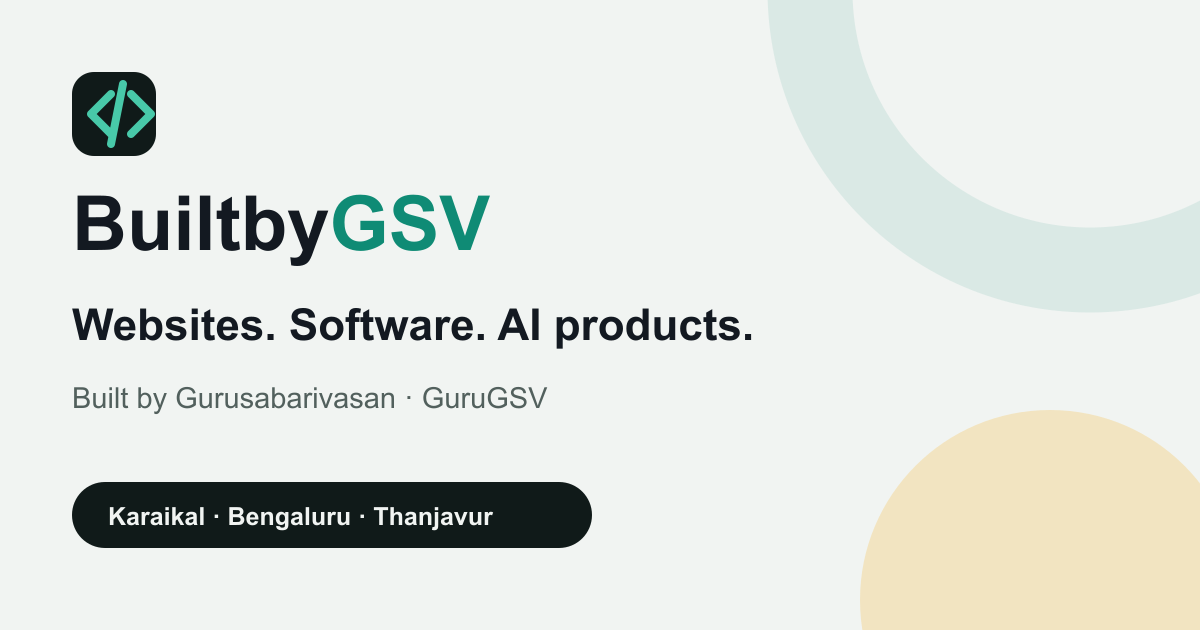
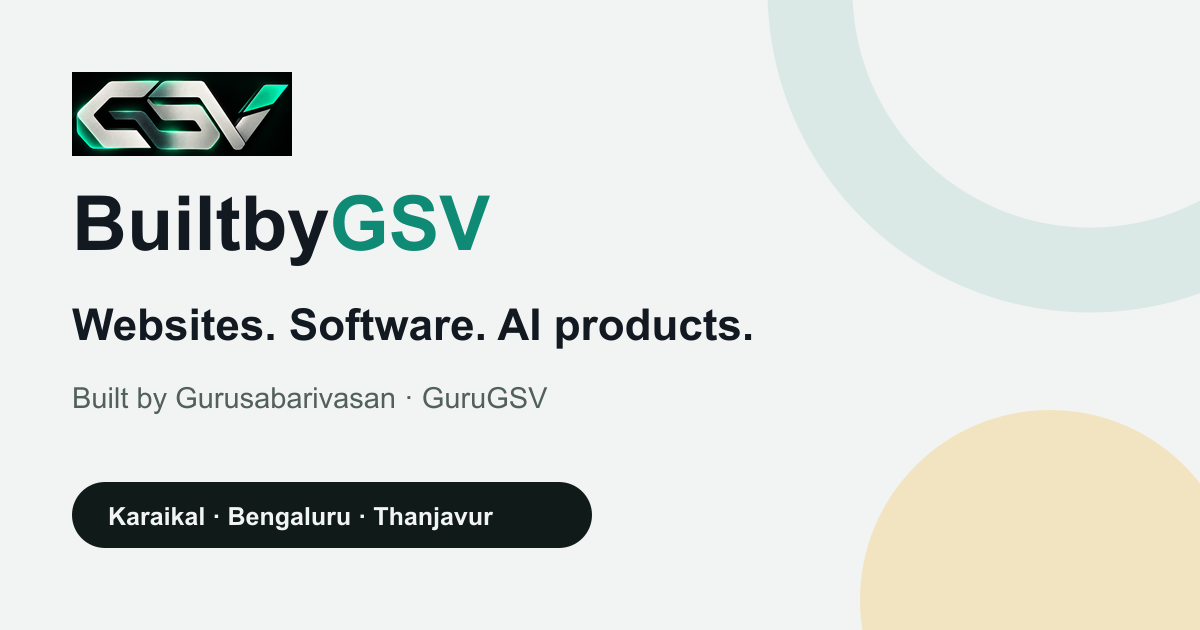
Integrate approved BuiltbyGSV mark across site branding

Changed region(s): [[0.0617, 0.0905, 0.2467, 0.2714]]

diff --git a/src/components/BottomNavBar.tsx b/src/components/BottomNavBar.tsx
@@ -1,5 +1,5 @@
 import React from 'react';
-import { Home, LayoutGrid, Briefcase, User, Code2 } from 'lucide-react';
+import { Home, LayoutGrid, Briefcase, User } from 'lucide-react';
 import { ScreenType } from '../types';
 import { SCREEN_PATHS } from '../routes';
 
@@ -17,7 +17,7 @@ export const BottomNavBar: React.FC<BottomNavBarProps> = ({
   const navItems = [
     { id: 'home' as ScreenType, label: 'Home', icon: Home },
     { id: 'projects' as ScreenType, label: 'Projects', icon: LayoutGrid },
-    { id: 'start-action', label: 'Start', icon: Code2, isCenter: true },
+    { id: 'start-action', label: 'Start', isCenter: true },
     { id: 'services' as ScreenType, label: 'Services', icon: Briefcase },
     { id: 'profile' as ScreenType, label: 'Me', icon: User },
   ];
@@ -34,16 +34,16 @@ export const BottomNavBar: React.FC<BottomNavBarProps> = ({
               <button
                 key="center-cta"
                 onClick={onOpenStartProject}
-                className="pointer-events-auto relative -top-5 bg-[#00C4CC] hover:bg-[#00b2b8] text-white w-13 h-13 rounded-full flex items-center justify-center shadow-lg shadow-[#00C4CC]/35 transition-transform active:scale-95 border-2 border-white cursor-pointer"
+                className="pointer-events-auto relative -top-5 bg-[#101A19] hover:bg-[#17342E] text-white w-13 h-13 rounded-full flex items-center justify-center shadow-lg shadow-slate-900/20 transition-transform active:scale-95 border-2 border-white cursor-pointer"
                 title="Start a Project"
                 id="btn-center-start-project"
               >
-                <span className="font-mono font-black text-white text-base tracking-tighter">&lt;/&gt;</span>
+                <img src="/icon-192.png" alt="" className="h-9 w-9 rounded-lg object-cover" />
               </button>
             );
           }
 
-          const Icon = item.icon;
+          const Icon = item.icon!;
           const isActive =
             currentScreen === item.id ||
             (item.id === 'projects' && currentScreen === 'project-detail') ||

diff --git a/index.html b/index.html
@@ -9,8 +9,8 @@
     <meta name="robots" content="index, follow, max-image-preview:large, max-snippet:-1, max-video-preview:-1" />
     <meta name="theme-color" content="#0F8B75" />
     <link rel="canonical" href="https://www.builtbygsv.in/" />
-    <link rel="icon" href="/builtbygsv-logo.png" type="image/png" />
-    <link rel="apple-touch-icon" href="/builtbygsv-logo.png" />
+    <link rel="icon" href="/favicon-48.png" type="image/png" sizes="48x48" />
+    <link rel="apple-touch-icon" href="/icon-192.png" />
     <link rel="manifest" href="/site.webmanifest" />
     <link rel="alternate" hreflang="en-IN" href="https://www.builtbygsv.in/" />
 
@@ -41,9 +41,9 @@
             "@type": "Organization",
             "@id": "https://www.builtbygsv.in/#organization",
             "name": "BuiltbyGSV",
+            "logo": "https://www.builtbygsv.in/assets/builtbygsv-logo.png",
             "alternateName": ["Built by GSV", "GuruGSV", "Guru GSV"],
             "url": "https://www.builtbygsv.in/",
-            "logo": "https://www.builtbygsv.in/builtbygsv-logo.png",
             "founder": {"@id": "https://www.builtbygsv.in/#gurusabarivasan"},
             "email": "gurugsv777@gmail.com",
             "telephone": "+91-74488-65095",

diff --git a/src/components/screens/ServicesOverviewScreen.tsx b/src/components/screens/ServicesOverviewScreen.tsx
@@ -4,6 +4,7 @@ import {
   Zap, Bot, Layers, Cloud, Calendar, Sparkles, Mail
 } from 'lucide-react';
 import { ScreenType, ServiceType } from '../../types';
+import { BrandLogo } from '../BrandLogo';
 
 interface ServicesOverviewScreenProps {
   onBack?: () => void;
@@ -41,14 +42,7 @@ export const ServicesOverviewScreen: React.FC<ServicesOverviewScreenProps> = ({
             <ArrowLeft className="w-5 h-5 stroke-[2.2]" />
           </button>
 
-          <div className="flex items-center gap-1.5 select-none">
-            <div className="font-mono text-base font-black text-[#0F8B75] tracking-tight">
-              &lt;/&gt;
-            </div>
-            <span className="font-extrabold text-base text-[#131921] tracking-tight">
-              Builtby<span className="text-[#0F8B75]">GSV</span>
-            </span>
-          </div>
+          <BrandLogo nameClassName="text-sm" />
 
           <button
             onClick={onOpenMenu}

diff --git a/src/components/BrandLogo.tsx b/src/components/BrandLogo.tsx
@@ -2,23 +2,21 @@ import React from 'react';
 
 interface BrandLogoProps {
   showName?: boolean;
-  imageClassName?: string;
   nameClassName?: string;
   className?: string;
 }
 
 export const BrandLogo: React.FC<BrandLogoProps> = ({
   showName = true,
-  imageClassName = 'h-9 w-9',
   nameClassName = 'text-base',
   className = '',
 }) => (
   <span className={`inline-flex items-center gap-2.5 ${className}`}>
     <img
-      src="/builtbygsv-logo.png"
+      src="/assets/builtbygsv-mark.png"
       alt=""
       aria-hidden="true"
-      className={`${imageClassName} shrink-0 rounded-[22%] object-cover shadow-sm`}
+      className="h-7 w-[74px] shrink-0 rounded-md border border-[#0F8B75]/30 bg-[#050909] object-contain shadow-sm"
     />
     {showName ? (
       <span className={`font-extrabold tracking-tight text-[#131921] ${nameClassName}`}>

diff --git a/src/components/screens/StartProjectModal.tsx b/src/components/screens/StartProjectModal.tsx
@@ -61,9 +61,7 @@ export const StartProjectModal: React.FC<StartProjectModalProps> = ({
         {/* Header */}
         <div className="sticky top-0 bg-[#F8F9FA]/95 backdrop-blur-md px-5 py-4 border-b border-slate-200/80 flex items-center justify-between z-10">
           <div className="flex items-center gap-2">
-            <div className="w-8 h-8 rounded-full bg-[#0F8B75] text-white flex items-center justify-center font-extrabold text-xs">
-              &lt;/&gt;
-            </div>
+            <img src="/icon-192.png" alt="" className="h-8 w-8 rounded-lg object-cover" />
             <div>
               <h2 id="start-project-title" className="text-sm font-extrabold text-slate-900">Start a Project</h2>
               <p className="text-[10px] text-slate-500">Create a pre-filled email with your project details</p>

diff --git a/src/components/ServiceAreaContent.tsx b/src/components/ServiceAreaContent.tsx
@@ -135,7 +135,7 @@ export const IllustrationDisk: React.FC<{ kind: 'web' | 'software' }> = ({ kind 
 export const SiteHeader: React.FC<{ onStartProject: () => void }> = ({ onStartProject }) => (
   <header className="px-5 pt-5 sm:px-8 lg:px-12">
     <div className="mx-auto flex max-w-6xl items-center justify-between">
-      <a href="/" aria-label="BuiltbyGSV home"><BrandLogo imageClassName="h-8 w-8" nameClassName="text-sm" /></a>
+      <a href="/" aria-label="BuiltbyGSV home"><BrandLogo nameClassName="text-sm" /></a>
       <div className="flex items-center gap-3">
         <div className="hidden items-center gap-2 rounded-full border border-slate-200/80 bg-white px-3.5 py-1.5 shadow-2xs sm:flex">
           <span className="h-2 w-2 animate-pulse rounded-full bg-[#10B981]" />

diff --git a/src/components/BlogContent.tsx b/src/components/BlogContent.tsx
@@ -6,7 +6,7 @@ import { blogPosts } from '../blog';
 const JournalHeader = () => (
   <header className="border-b border-slate-200/80 bg-[#F8F9FA] px-5 py-5 sm:px-8 lg:px-12">
     <div className="mx-auto flex max-w-6xl items-center justify-between">
-      <a href="/" aria-label="BuiltbyGSV home"><BrandLogo imageClassName="h-9 w-9" nameClassName="text-base" /></a>
+      <a href="/" aria-label="BuiltbyGSV home"><BrandLogo nameClassName="text-base" /></a>
       <nav aria-label="Journal navigation" className="hidden items-center gap-5 sm:flex">
         <a href="/web-software-developer-karaikal" className="flex items-center gap-2 text-xs font-extrabold text-slate-600 transition hover:text-[#0F8B75]">
           <MapPin className="h-4 w-4" /> Karaikal services

diff --git a/src/components/screens/HeroLandingScreen.tsx b/src/components/screens/HeroLandingScreen.tsx
@@ -12,7 +12,7 @@ export const HeroLandingScreen: React.FC<HeroLandingScreenProps> = ({ onGetStart
     <div className="flex h-[100dvh] min-h-[440px] flex-col overflow-hidden bg-[#F8F9FA] px-5 pb-[max(0.75rem,env(safe-area-inset-bottom))] pt-[max(1rem,env(safe-area-inset-top))] text-[#131921] sm:px-8">
       {/* Top Header Logo */}
       <div className="z-10 flex shrink-0 items-center justify-between">
-        <BrandLogo imageClassName="h-8 w-8" nameClassName="text-[13px] sm:text-sm" />
+        <BrandLogo nameClassName="text-[13px] sm:text-sm" />
       </div>
 
       {/* Main Heading & Subtitle */}

diff --git a/scripts/og-image.ts b/scripts/og-image.ts
@@ -14,8 +14,13 @@ const source = resolve('public', 'og-cover.svg');
 const targets = [resolve('public', 'og-cover.png'), resolve('dist', 'og-cover.png')];
 
 const svg = await readFile(source);
+const logo = await sharp(resolve('public', 'assets', 'builtbygsv-mark.png'))
+  .resize(220, 84)
+  .png()
+  .toBuffer();
 const png = await sharp(svg, { density: 144 })
   .resize(1200, 630, { fit: 'contain', background: '#F1F4F2' })
+  .composite([{ input: logo, left: 72, top: 72 }])
   .png({ compressionLevel: 9 })
   .toBuffer();
 

diff --git a/src/App.tsx b/src/App.tsx
@@ -322,7 +322,7 @@ export default function App() {
               <div className="space-y-6">
                 <div className="flex items-center justify-between border-b pb-4">
                   <div className="flex items-center gap-2">
-                    <BrandLogo imageClassName="h-8 w-8" nameClassName="text-sm" />
+                    <BrandLogo nameClassName="text-sm" />
                     <span id="quick-menu-title" className="sr-only">BuiltbyGSV Menu</span>
                   </div>
                   <button

diff --git a/src/components/Sidebar.tsx b/src/components/Sidebar.tsx
@@ -38,7 +38,7 @@ export const Sidebar: React.FC<SidebarProps> = ({
           className="flex items-center gap-2.5 cursor-pointer group px-1 pt-1 text-left"
           aria-label="Go to BuiltbyGSV home"
         >
-          <BrandLogo imageClassName="h-10 w-10 group-hover:scale-105 transition-transform" nameClassName="text-xl" />
+          <BrandLogo nameClassName="text-xl" />
         </button>
 
         {/* Navigation Items List - Spaced out to use vertical space */}

diff --git a/src/components/MobileSeoPages.tsx b/src/components/MobileSeoPages.tsx
@@ -53,7 +53,7 @@ const MobileHeader: React.FC<{ backHref: string; backLabel: string }> = ({ backH
     >
       <ArrowLeft className="h-5 w-5 stroke-[2.2]" />
     </a>
-    <a href="/" className="select-none"><BrandLogo imageClassName="h-8 w-8" nameClassName="text-base" /></a>
+    <a href="/" className="select-none"><BrandLogo nameClassName="text-base" /></a>
     <a
       href="/contact"
       aria-label="Contact"
